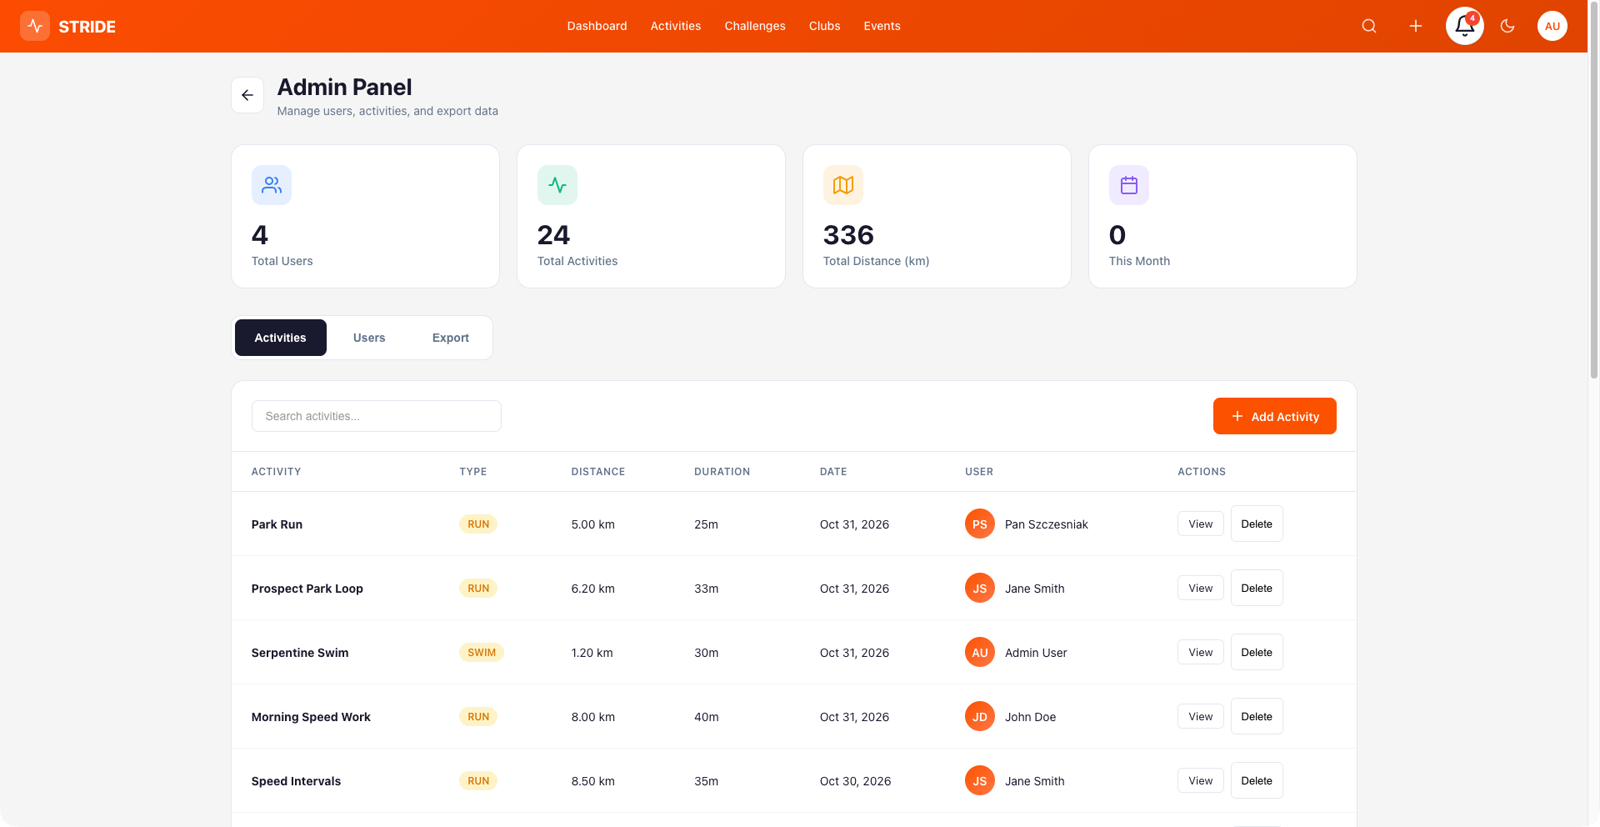
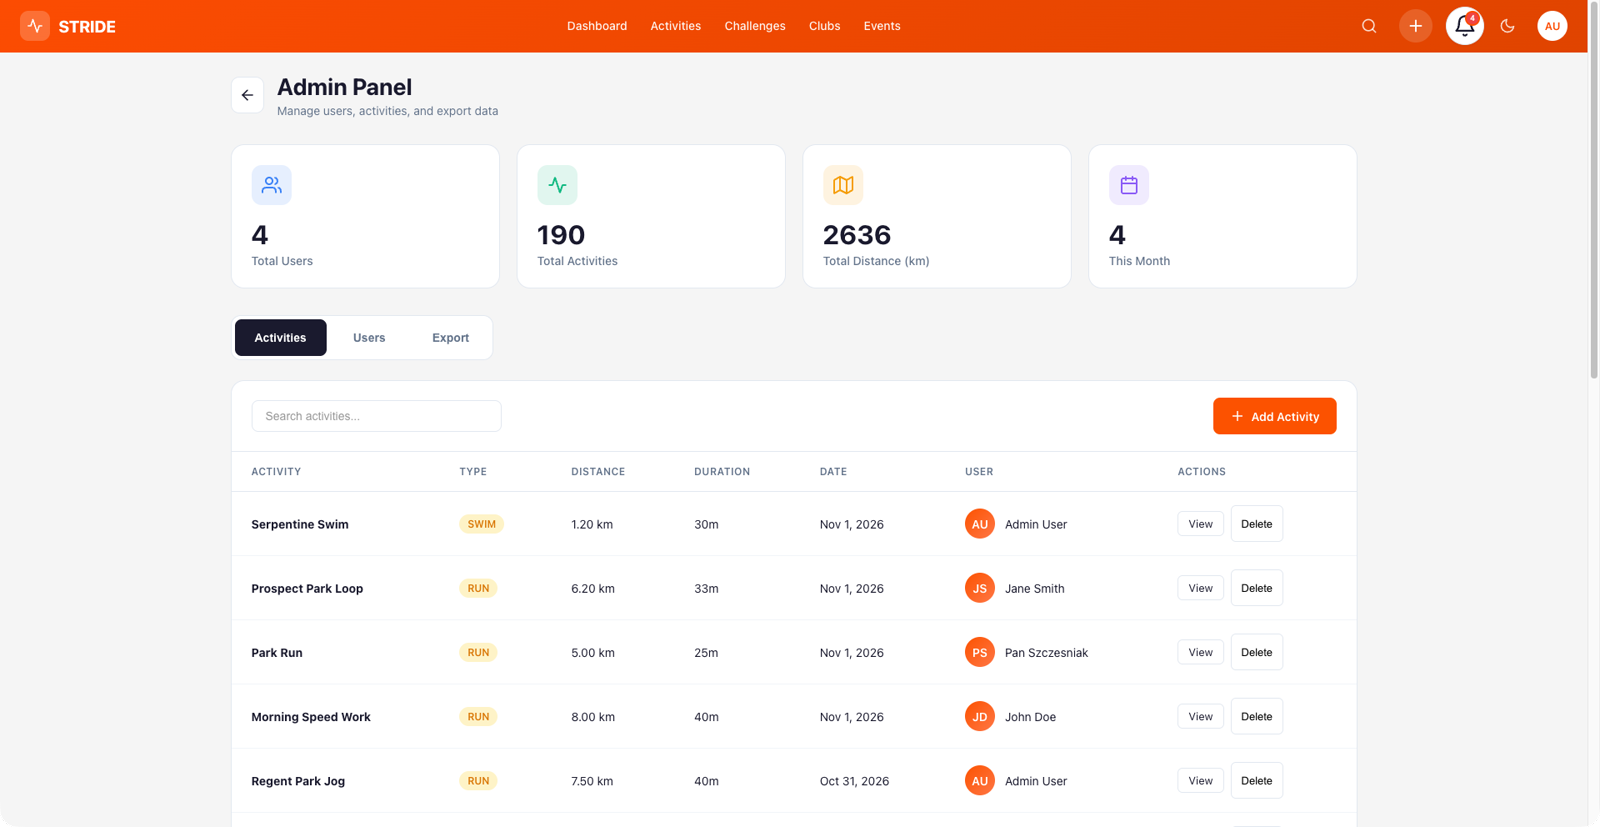
Merge pull request #217 from erykszczesniak/feat/sample-activity-history
feat(data): seed eleven weeks of sample activity history

diff --git a/src/test/java/com/strava/backend/integration/SampleActivityHistoryIntegrationTest.java b/src/test/java/com/strava/backend/integration/SampleActivityHistoryIntegrationTest.java
@@ -1,0 +1,125 @@
+package com.strava.backend.integration;
+
+import com.strava.backend.domain.PersonalRecord;
+import com.strava.backend.repository.PersonalRecordRepository;
+import com.strava.backend.service.PersonalRecordService;
+import org.junit.jupiter.api.DisplayName;
+import org.junit.jupiter.api.Tag;
+import org.junit.jupiter.api.Test;
+import org.springframework.beans.factory.annotation.Autowired;
+import org.springframework.boot.test.context.SpringBootTest;
+import org.springframework.boot.testcontainers.service.connection.ServiceConnection;
+import org.springframework.jdbc.core.JdbcTemplate;
+import org.springframework.test.context.ActiveProfiles;
+import org.springframework.test.context.TestPropertySource;
+import org.testcontainers.containers.PostgreSQLContainer;
+import org.testcontainers.junit.jupiter.Container;
+import org.testcontainers.junit.jupiter.Testcontainers;
+
+import java.util.List;
+import java.util.Map;
+import java.util.Set;
+import java.util.stream.Collectors;
+
+import static org.assertj.core.api.Assertions.assertThat;
+
+/**
+ * Runs the real Flyway migration set on PostgreSQL and checks the sample
+ * training history seeded by V23 (the other Testcontainers tests disable
+ * Flyway and let Hibernate create the schema, so nothing else exercises the
+ * seeds on the production engine).
+ *
+ * <p>Uses its own container on purpose: {@link AbstractIntegrationTest} shares
+ * a reused container whose schema is created by {@code ddl-auto=create-drop}.
+ */
+@SpringBootTest
+@Testcontainers(disabledWithoutDocker = true)
+@ActiveProfiles("testcontainers")
+@TestPropertySource(properties = {
+        "spring.flyway.enabled=true",
+        "spring.jpa.hibernate.ddl-auto=validate"
+})
+@Tag("integration")
+@DisplayName("Sample activity history (V23) on real PostgreSQL")
+class SampleActivityHistoryIntegrationTest {
+
+    private static final List<Long> SAMPLE_USERS = List.of(1L, 2L, 3L, 4L);
+    private static final int SEEDED_ACTIVITIES = 24;
+    private static final int HISTORY_ACTIVITIES = 166;
+    private static final int SEEDED_PERSONAL_RECORDS = 17;
+
+    @Container
+    @ServiceConnection
+    static final PostgreSQLContainer<?> POSTGRES = new PostgreSQLContainer<>("postgres:16-alpine");
+
+    @Autowired
+    private JdbcTemplate jdbc;
+
+    @Autowired
+    private PersonalRecordService personalRecordService;
+
+    @Autowired
+    private PersonalRecordRepository personalRecordRepository;
+
+    @Test
+    @DisplayName("every sample user has history in the previous month and in at least 10 of the last 12 weeks")
+    void historyCoversTheDashboardWindows() {
+        Integer total = jdbc.queryForObject("select count(*) from activities", Integer.class);
+        assertThat(total).isEqualTo(SEEDED_ACTIVITIES + HISTORY_ACTIVITIES);
+
+        Integer future = jdbc.queryForObject(
+                "select count(*) from activities where start_time > now()", Integer.class);
+        assertThat(future).as("no activity may be dated in the future").isZero();
+
+        for (Long userId : SAMPLE_USERS) {
+            Integer previousMonth = jdbc.queryForObject("""
+                    select count(*) from activities
+                    where user_id = ?
+                      and start_time >= date_trunc('month', now()) - interval '1 month'
+                      and start_time <  date_trunc('month', now())
+                    """, Integer.class, userId);
+            assertThat(previousMonth)
+                    .as("user %d needs activities in the previous calendar month for the trend", userId)
+                    .isGreaterThanOrEqualTo(4);
+
+            Integer weeks = jdbc.queryForObject("""
+                    select count(distinct date_trunc('week', start_time)) from activities
+                    where user_id = ?
+                      and start_time >= date_trunc('week', now()) - interval '11 weeks'
+                    """, Integer.class, userId);
+            assertThat(weeks)
+                    .as("user %d should fill the 12-week volume chart", userId)
+                    .isGreaterThanOrEqualTo(10);
+
+            Integer streams = jdbc.queryForObject("""
+                    select count(*) from activities
+                    where user_id = ? and id > ? and route_polyline is not null
+                    """, Integer.class, userId, SEEDED_ACTIVITIES);
+            assertThat(streams).as("history rows are plain manual entries").isZero();
+        }
+    }
+
+    @Test
+    @DisplayName("recalculating personal records still yields exactly the seeded V20 rows")
+    void historyDoesNotRewriteSeededRecords() {
+        Map<Long, Set<String>> seeded = snapshot();
+        assertThat(seeded.values().stream().mapToInt(Set::size).sum()).isEqualTo(SEEDED_PERSONAL_RECORDS);
+
+        SAMPLE_USERS.forEach(personalRecordService::recalculateAllPRs);
+
+        Map<Long, Set<String>> recalculated = snapshot();
+        assertThat(recalculated).isEqualTo(seeded);
+    }
+
+    private Map<Long, Set<String>> snapshot() {
+        return SAMPLE_USERS.stream().collect(Collectors.toMap(
+                userId -> userId,
+                userId -> personalRecordRepository.findByUserId(userId).stream()
+                        .map(SampleActivityHistoryIntegrationTest::key)
+                        .collect(Collectors.toSet())));
+    }
+
+    private static String key(PersonalRecord pr) {
+        return pr.getActivityType() + "/" + pr.getDistanceType() + "/" + pr.getTimeInSeconds();
+    }
+}

diff --git a/CHANGELOG.md b/CHANGELOG.md
@@ -53,6 +53,13 @@ changelog.
   rewrite of 12 September.
 
 ### Added
+- Sample data: eleven weeks of training history for the four sample users
+  (`V23`, 166 manual activities dated relative to the first start), so the
+  dashboard month cards, the month-over-month trend and the 12-week volume
+  chart have data on any day. Seeded personal records are unchanged;
+  `SampleActivityHistoryIntegrationTest` runs the full Flyway set on
+  PostgreSQL and recalculates the records to prove it. `make db-reset`
+  re-dates the sample data.
 - README: table of contents, `Operations & quality` overview with the local
   verification commands, alerting section, `verify`-based test instructions and a
   documentation index.

diff --git a/README.md b/README.md
@@ -119,6 +119,10 @@ Sample accounts use password `password123`:
 | `jane@example.com` | USER |
 | `admin@example.com` | ADMIN |
 
+Sample activities cover the last 12 weeks and are dated relative to the first
+start of the database. If the stack has been running for weeks, `make db-reset`
+drops the volumes and re-seeds them from today.
+
 Useful commands:
 
 ```bash
